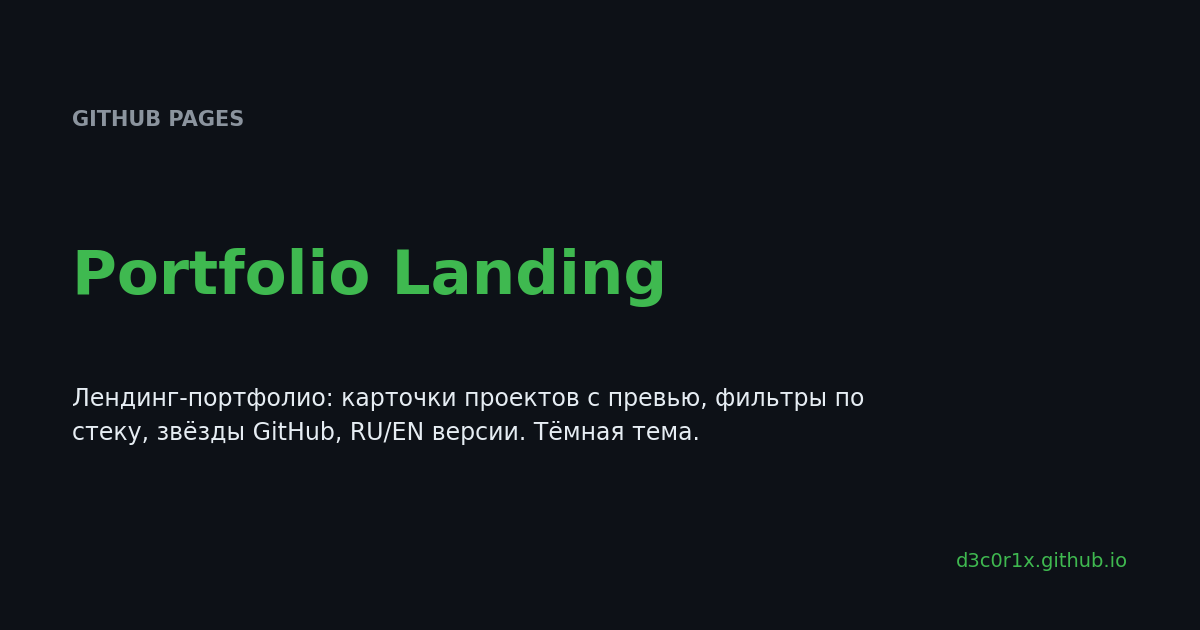
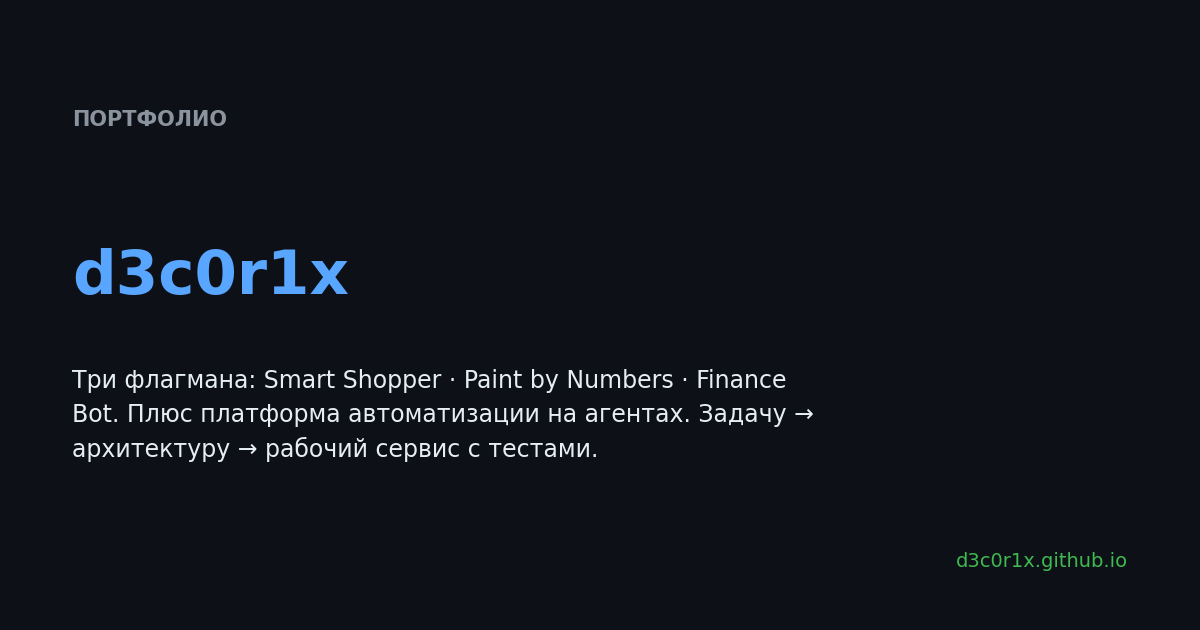
Лендинг: подача «задача → архитектура → рабочий продукт», карточка AI Automation Platform, учебные проекты убраны с витрины
🤖 Generated with Codebuff

Changed region(s): [[0.0617, 0.573, 0.7092, 0.7238], [0.0617, 0.3921, 0.555, 0.4825], [0.0617, 0.1508, 0.2158, 0.2111]]

diff --git a/index.html b/index.html
@@ -3,10 +3,10 @@
 <head>
 <meta charset="UTF-8">
 <meta name="viewport" content="width=device-width, initial-scale=1.0">
-<title>d3c0r1x — AI вайб-кодер и прототипист</title>
-<meta name="description" content="Портфолио: Telegram-боты и Mini Apps, LLM и Vision, интеграции маркетплейсов. Прототипы и MVP — от идеи до работающего сервиса.">
-<meta property="og:title" content="d3c0r1x — AI вайб-кодер и прототипист">
-<meta property="og:description" content="Telegram-боты и Mini Apps, LLM и Vision, маркетплейсы. Прототипы и MVP — от идеи до работающего сервиса.">
+<title>d3c0r1x — AI-first продукт-билдер и вайб-кодер</title>
+<meta name="description" content="Беру бизнес-задачу и довожу до рабочего продукта: AI-интеграции и LLM, автоматизация и агенты, backend на FastAPI, фронтенд на React. Портфолио из трёх флагманов и платформы автоматизации.">
+<meta property="og:title" content="d3c0r1x — AI-first продукт-билдер">
+<meta property="og:description" content="Задачу → архитектуру → рабочий продукт. AI-интеграции и агенты, автоматизация, FastAPI и React. Три флагмана и платформа автоматизации на агентах.">
 <meta property="og:type" content="website">
 <meta property="og:url" content="https://d3c0r1x.github.io/">
 <meta property="og:image" content="https://d3c0r1x.github.io/og-image.png">
@@ -62,8 +62,12 @@
   <div class="container">
     <p><a href="en/">EN</a> · RU</p>
     <h1>d3c0r1x</h1>
-    <p class="tagline"><b>AI вайб-кодер и прототипист.</b> Довожу прототипы и MVP от идеи до рабочего продукта с помощью AI-инструментов: Cursor, ChatGPT, OpenRouter и другие LLM.</p>
-    <p class="formula">идея → промпт → рабочий код → отладка → работающий сервис</p>
+    <p class="tagline"><b>AI-first продукт-билдер.</b> Беру бизнес-задачу и довожу её до рабочего продукта: архитектура, интеграции API и моделей, отладка, тесты, финальное поведение. AI-инструменты — ускоритель, а не замена проверке.</p>
+    <p class="formula">задача → архитектура → прототип → тесты → рабочий сервис</p>
+    <p class="tagline" style="font-size:1rem;margin-top:10px">Три флагмана — <a href="https://github.com/d3c0r1x/smart-shopper">Smart Shopper</a> ·
+      <a href="https://github.com/d3c0r1x/paint-by-numbers">Paint by Numbers</a> ·
+      <a href="https://github.com/d3c0r1x/finance-bot">Finance Bot</a> — и
+      <a href="https://github.com/d3c0r1x/ai-automation-platform">платформа автоматизации на агентах</a>.</p>
     <div class="links">
       <a class="btn btn-cta" href="https://t.me/d3c0r1x" title="Замените на свой Telegram">💬 Заказы и вопросы</a>
       <a class="btn" href="https://github.com/d3c0r1x">GitHub</a>
@@ -82,8 +86,16 @@
       <span class="chip" data-filter="ai">AI / LLM</span>
       <span class="chip" data-filter="market">Маркетплейсы</span>
       <span class="chip" data-filter="web">Web</span>
+      <span class="chip" data-filter="automation">Автоматизация</span>
     </div>
     <div class="grid">
+
+      <div class="card" data-tags="ai web automation">
+        <img src="img/ai-automation-platform.png" alt="AI Automation Platform" loading="lazy">
+        <h3><a href="https://github.com/d3c0r1x/ai-automation-platform">AI Automation Platform</a><span class="star" data-repo="ai-automation-platform"></span></h3>
+        <p>«Найди 20 товаров до 5000 ₽, сравни, выбери 5, составь таблицу и пришли» — задача обычными словами. Агент планирует вызовы инструментов, план проверяется до запуска, выполнение переживает сбой, отправка наружу ждёт подтверждения. FastAPI, PostgreSQL, Redis, Playwright, React-дашборд.</p>
+        <div class="tags"><span class="tag">LLM tool calling</span><span class="tag">FastAPI</span><span class="tag">PostgreSQL</span><span class="tag">Redis</span><span class="tag">Playwright</span><span class="tag">React</span></div>
+      </div>
 
       <div class="card" data-tags="telegram ai market">
         <img src="img/smart-shopper.png" alt="Smart Shopper" loading="lazy">
@@ -141,20 +153,6 @@
         <div class="tags"><span class="tag">TypeScript</span><span class="tag">React</span><span class="tag">Vite</span><span class="tag">Web Worker</span></div>
       </div>
 
-      <div class="card" data-tags="telegram market">
-        <img src="img/wb-price-tracker.png" alt="WB Price Tracker" loading="lazy">
-        <h3><a href="https://github.com/d3c0r1x/wb-price-tracker">WB Price Tracker</a><span class="star" data-repo="wb-price-tracker"></span></h3>
-        <p>Мониторинг цен и остатков Wildberries с ежедневными проверками и уведомлениями; история цен в SQLite, работа с антибот-защитой через curl_cffi.</p>
-        <div class="tags"><span class="tag">aiogram 3</span><span class="tag">curl_cffi</span><span class="tag">SQLite</span></div>
-      </div>
-
-      <div class="card" data-tags="telegram">
-        <img src="img/learning-projects.png" alt="Learning Projects" loading="lazy">
-        <h3><a href="https://github.com/d3c0r1x/learning-projects">Learning Projects</a><span class="star" data-repo="learning-projects"></span></h3>
-        <p>12 учебных проектов по ТЗ: трекеры цен, PDF-отчёты, викторины, погода, курсы ЦБ, дайджесты новостей и «Умный Шоппер». Индекс, валидатор, сводный дамп кода.</p>
-        <div class="tags"><span class="tag">Python</span><span class="tag">aiogram 3</span><span class="tag">portfolio</span></div>
-      </div>
-
     </div>
   </div>
 </section>
@@ -176,11 +174,11 @@
 <section id="stack">
   <div class="container">
     <h2>🛠 Стек</h2>
-    <p class="stack-line"><b>Backend:</b> Python 3.11+, FastAPI, TypeScript, React</p>
-    <p class="stack-line"><b>Telegram:</b> aiogram 3, Mini App (React + Vite), Telegram Stars</p>
-    <p class="stack-line"><b>AI/LLM:</b> OpenRouter, YandexGPT, Ollama (LLM + Vision), prompt engineering, строгий JSON на pydantic</p>
-    <p class="stack-line"><b>Интеграции:</b> Ozon, Wildberries, Яндекс Маркет, Open-Meteo, ЦБ РФ, RSS/Atom, PDF</p>
-    <p class="stack-line"><b>Инфраструктура:</b> SQLite (aiosqlite), APScheduler, Docker, GitHub Actions, pytest</p>
+    <p class="stack-line"><b>Backend:</b> Python 3.11+, FastAPI, aiogram 3, TypeScript, React</p>
+    <p class="stack-line"><b>AI/LLM:</b> LLM tool calling и агентные сценарии, OpenRouter, Mistral, Ollama (LLM + Vision), prompt engineering, строгий JSON на pydantic</p>
+    <p class="stack-line"><b>Автоматизация:</b> фоновые воркеры, очереди (Redis), расписания, Playwright, вебхуки, SSE-прогресс</p>
+    <p class="stack-line"><b>Интеграции:</b> Ozon, Wildberries, Яндекс Маркет, Open-Meteo, ЦБ РФ, RSS/Atom, PDF, Telegram Stars</p>
+    <p class="stack-line"><b>Инфраструктура:</b> PostgreSQL, SQLite (aiosqlite), Docker Compose, GitHub Actions, pytest, ruff</p>
   </div>
 </section>
 
@@ -188,14 +186,14 @@
   <div class="container">
     <h2>🎯 Направления</h2>
     <div class="grid">
-      <div class="card"><p>Разработка AI-сервисов и автоматизация рутинных процессов</p></div>
+      <div class="card"><p>AI-сервисы и автоматизация бизнес-процессов</p></div>
+      <div class="card"><p>Агентные сценарии: планирование, инструменты, подтверждение человеком</p></div>
       <div class="card"><p>Интеграция внешних API и AI-моделей</p></div>
+      <div class="card"><p>Backend на Python/FastAPI, фоновые воркеры и очереди</p></div>
       <div class="card"><p>Telegram-боты и Telegram Mini Apps</p></div>
-      <div class="card"><p>Backend на Python/FastAPI</p></div>
-      <div class="card"><p>LLM, Vision-модели и prompt engineering</p></div>
-      <div class="card"><p>MVP от идеи до рабочего прототипа</p></div>
-      <div class="card"><p>Отладка и доработка AI-сгенерированного кода</p></div>
-      <div class="card"><p>Данные Ozon, Wildberries и Яндекс Маркета</p></div>
+      <div class="card"><p>React/TypeScript: интерфейсы, канвас, обработка изображений</p></div>
+      <div class="card"><p>Локальный AI: Ollama, Vision-модели, OCR — данные не покидают машину</p></div>
+      <div class="card"><p>MVP от идеи до рабочего сервиса, с тестами и CI</p></div>
     </div>
   </div>
 </section>

diff --git a/en/index.html b/en/index.html
@@ -3,10 +3,10 @@
 <head>
 <meta charset="UTF-8">
 <meta name="viewport" content="width=device-width, initial-scale=1.0">
-<title>d3c0r1x — AI vibe coder & prototyper</title>
-<meta name="description" content="Portfolio: Telegram bots and Mini Apps, LLM and Vision, marketplace integrations. Prototypes and MVPs — from idea to a working product.">
-<meta property="og:title" content="d3c0r1x — AI vibe coder & prototyper">
-<meta property="og:description" content="Telegram bots and Mini Apps, LLM and Vision, marketplaces. Prototypes and MVPs — from idea to a working product.">
+<title>d3c0r1x — AI-first product builder</title>
+<meta name="description" content="I take a business task and ship a working product: AI integrations and LLM agents, automation, FastAPI backends, React frontends. Portfolio of three flagships plus an agent automation platform.">
+<meta property="og:title" content="d3c0r1x — AI-first product builder">
+<meta property="og:description" content="Task → architecture → working product. AI integrations and agents, automation, FastAPI and React. Three flagships and an agent automation platform.">
 <meta property="og:type" content="website">
 <meta property="og:url" content="https://d3c0r1x.github.io/en/">
 <meta property="og:image" content="https://d3c0r1x.github.io/og-image.png">
@@ -61,8 +61,12 @@
   <div class="container">
     <p><a href="../">← RU</a></p>
     <h1>d3c0r1x</h1>
-    <p class="tagline"><b>AI vibe coder & prototyper.</b> I take prototypes and MVPs from idea to a working product on my own, using AI tools: Cursor, ChatGPT, OpenRouter and other LLMs.</p>
-    <p class="formula">idea → prompt → working code → debugging → shipped service</p>
+    <p class="tagline"><b>AI-first product builder.</b> I take a business task and ship a working product: architecture, API and model integrations, debugging, tests, final behaviour. AI tools are an accelerator, not a replacement for validation.</p>
+    <p class="formula">task → architecture → prototype → tests → shipped service</p>
+    <p class="tagline" style="font-size:1rem;margin-top:10px">Three flagships — <a href="https://github.com/d3c0r1x/smart-shopper">Smart Shopper</a> ·
+      <a href="https://github.com/d3c0r1x/paint-by-numbers">Paint by Numbers</a> ·
+      <a href="https://github.com/d3c0r1x/finance-bot">Finance Bot</a> — plus an
+      <a href="https://github.com/d3c0r1x/ai-automation-platform">agent automation platform</a>.</p>
     <div class="links">
       <a class="btn btn-cta" href="https://t.me/d3c0r1x" title="Replace with your own Telegram handle">💬 Commissions & questions</a>
       <a class="btn" href="https://github.com/d3c0r1x">GitHub</a>
@@ -80,8 +84,16 @@
       <span class="chip" data-filter="ai">AI / LLM</span>
       <span class="chip" data-filter="market">Marketplaces</span>
       <span class="chip" data-filter="web">Web</span>
+      <span class="chip" data-filter="automation">Automation</span>
     </div>
     <div class="grid">
+
+      <div class="card" data-tags="ai web automation">
+        <img src="../img/ai-automation-platform.png" alt="AI Automation Platform" loading="lazy">
+        <h3><a href="https://github.com/d3c0r1x/ai-automation-platform">AI Automation Platform</a><span class="star" data-repo="ai-automation-platform"></span></h3>
+        <p>"Find 20 items under 5000 ₽, compare them, pick 5, build a table and send it" — a task in plain words. The agent plans tool calls, the plan is validated before running, execution survives a crash, and anything leaving the machine waits for human approval. FastAPI, PostgreSQL, Redis, Playwright, React dashboard.</p>
+        <div class="tags"><span class="tag">LLM tool calling</span><span class="tag">FastAPI</span><span class="tag">PostgreSQL</span><span class="tag">Redis</span><span class="tag">Playwright</span><span class="tag">React</span></div>
+      </div>
 
       <div class="card" data-tags="telegram ai market">
         <img src="../img/smart-shopper.png" alt="Smart Shopper" loading="lazy">
@@ -139,20 +151,6 @@
         <div class="tags"><span class="tag">TypeScript</span><span class="tag">React</span><span class="tag">Web Worker</span></div>
       </div>
 
-      <div class="card" data-tags="telegram market">
-        <img src="../img/wb-price-tracker.png" alt="WB Price Tracker" loading="lazy">
-        <h3><a href="https://github.com/d3c0r1x/wb-price-tracker">WB Price Tracker</a><span class="star" data-repo="wb-price-tracker"></span></h3>
-        <p>Wildberries price and stock monitoring with daily checks and notifications; price history in SQLite, anti-bot handling via curl_cffi.</p>
-        <div class="tags"><span class="tag">aiogram 3</span><span class="tag">curl_cffi</span><span class="tag">SQLite</span></div>
-      </div>
-
-      <div class="card" data-tags="telegram">
-        <img src="../img/learning-projects.png" alt="Learning Projects" loading="lazy">
-        <h3><a href="https://github.com/d3c0r1x/learning-projects">Learning Projects</a><span class="star" data-repo="learning-projects"></span></h3>
-        <p>12 Python training projects from a spec: price trackers, PDF reports, quizzes, weather, central-bank rates, news digests and the "Smart Shopper" assistant. Index, validator, code dump.</p>
-        <div class="tags"><span class="tag">Python</span><span class="tag">aiogram 3</span><span class="tag">portfolio</span></div>
-      </div>
-
     </div>
   </div>
 </section>
@@ -174,11 +172,11 @@
 <section id="stack">
   <div class="container">
     <h2>🛠 Stack</h2>
-    <p class="stack-line"><b>Backend:</b> Python 3.11+, FastAPI, TypeScript, React</p>
-    <p class="stack-line"><b>Telegram:</b> aiogram 3, Mini App (React + Vite), Telegram Stars</p>
-    <p class="stack-line"><b>AI/LLM:</b> OpenRouter, YandexGPT, Ollama (LLM + Vision), prompt engineering, strict JSON via pydantic</p>
-    <p class="stack-line"><b>Integrations:</b> Ozon, Wildberries, Yandex Market, Open-Meteo, CBR, RSS/Atom, PDF</p>
-    <p class="stack-line"><b>Infrastructure:</b> SQLite (aiosqlite), APScheduler, Docker, GitHub Actions, pytest</p>
+    <p class="stack-line"><b>Backend:</b> Python 3.11+, FastAPI, aiogram 3, TypeScript, React</p>
+    <p class="stack-line"><b>AI/LLM:</b> agentic flows with LLM tool calling, OpenRouter, Mistral, Ollama (LLM + Vision), prompt engineering, strict JSON via pydantic</p>
+    <p class="stack-line"><b>Automation:</b> background workers, queues (Redis), schedules, Playwright, webhooks, SSE progress</p>
+    <p class="stack-line"><b>Integrations:</b> Ozon, Wildberries, Yandex Market, Open-Meteo, CBR, RSS/Atom, PDF, Telegram Stars</p>
+    <p class="stack-line"><b>Infrastructure:</b> PostgreSQL, SQLite (aiosqlite), Docker Compose, GitHub Actions, pytest, ruff</p>
   </div>
 </section>
 
